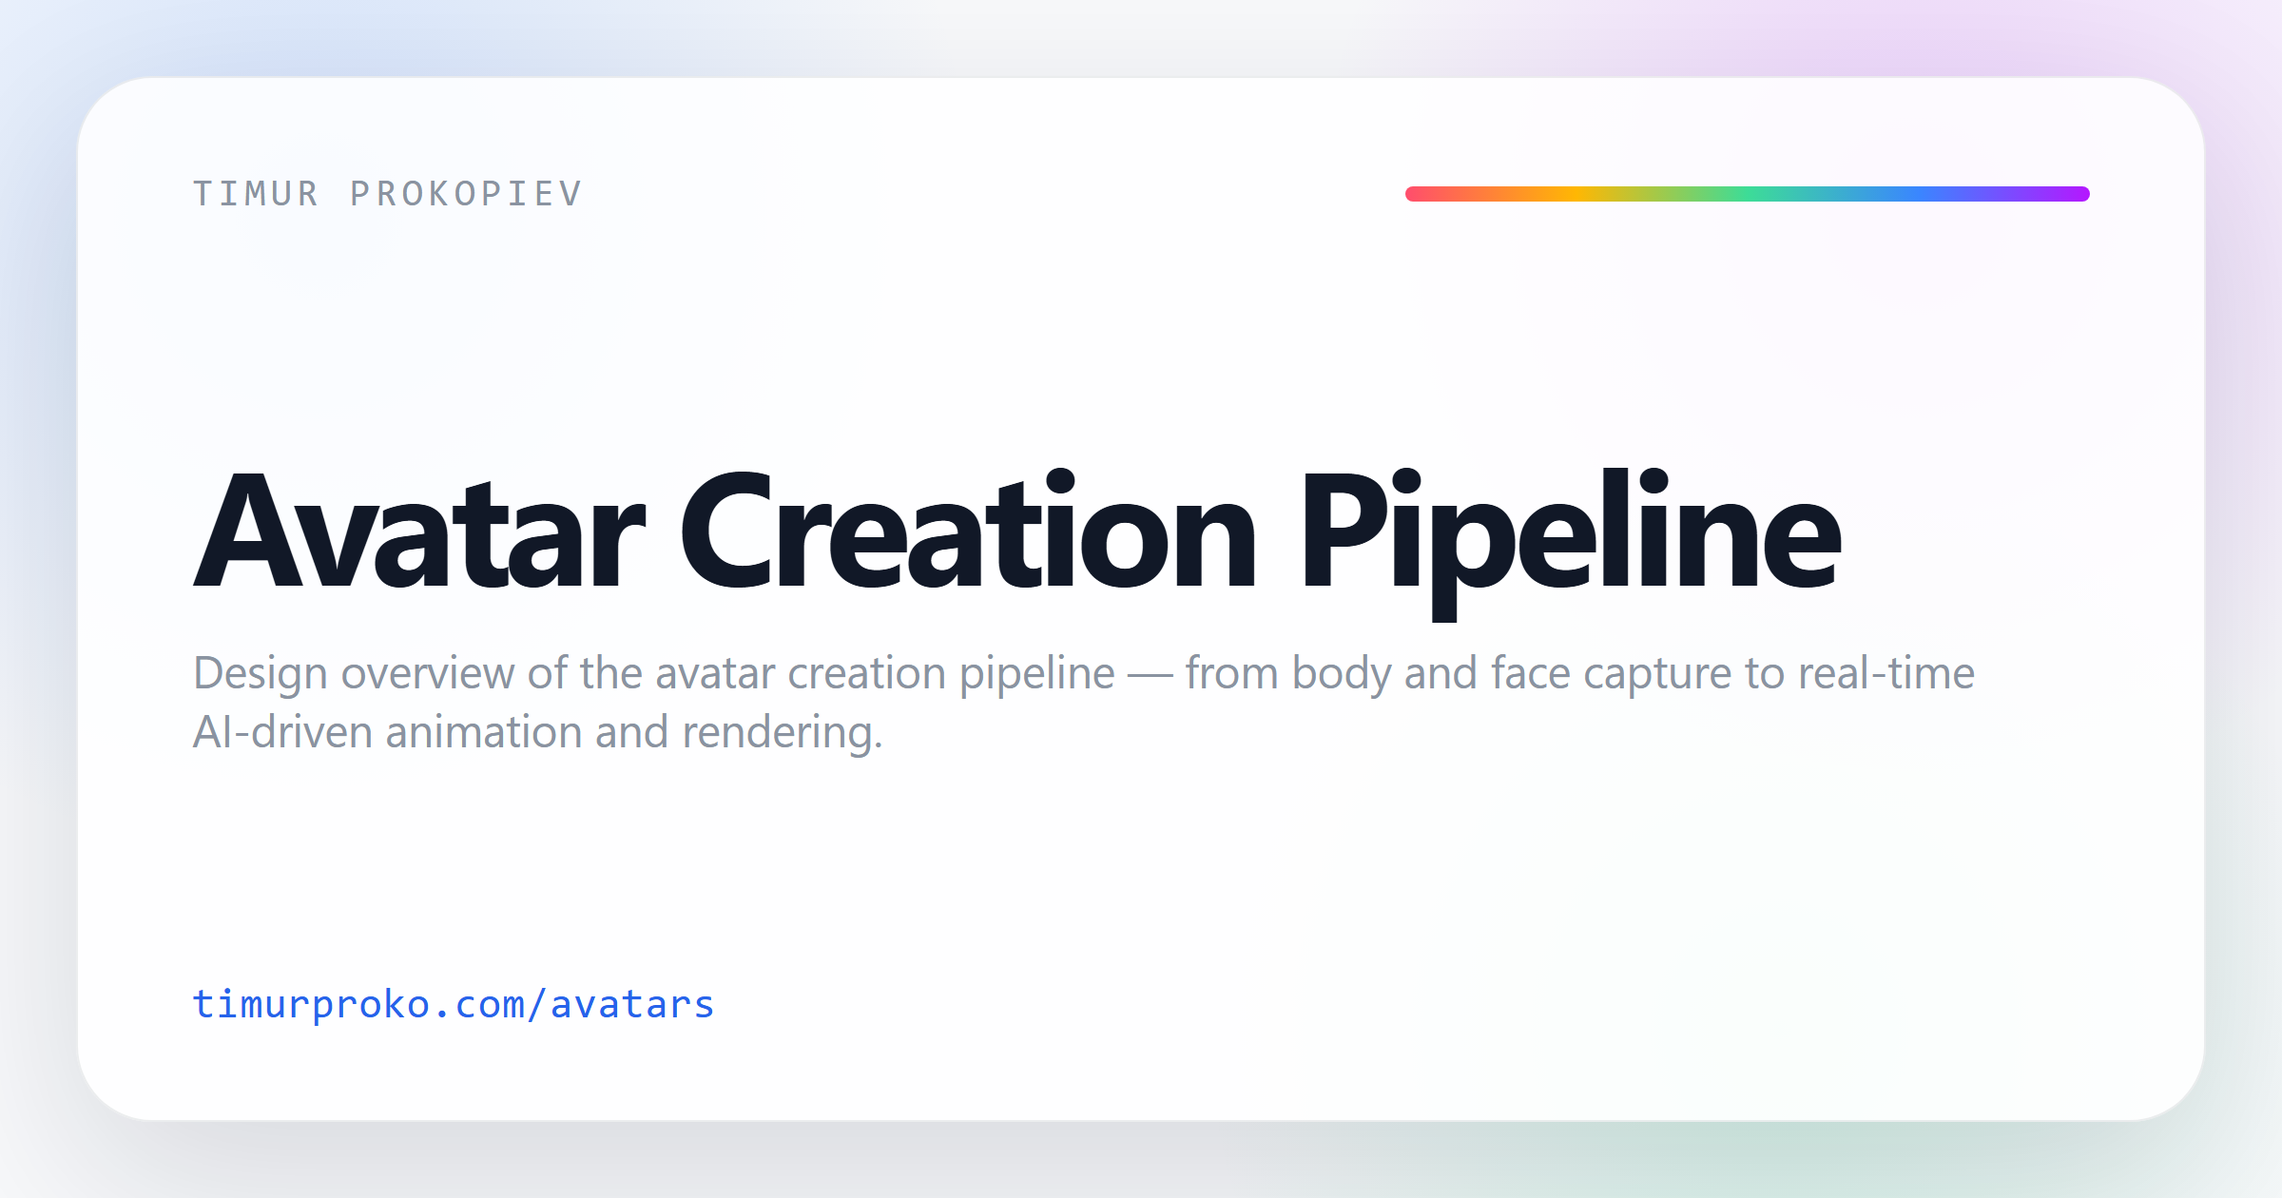
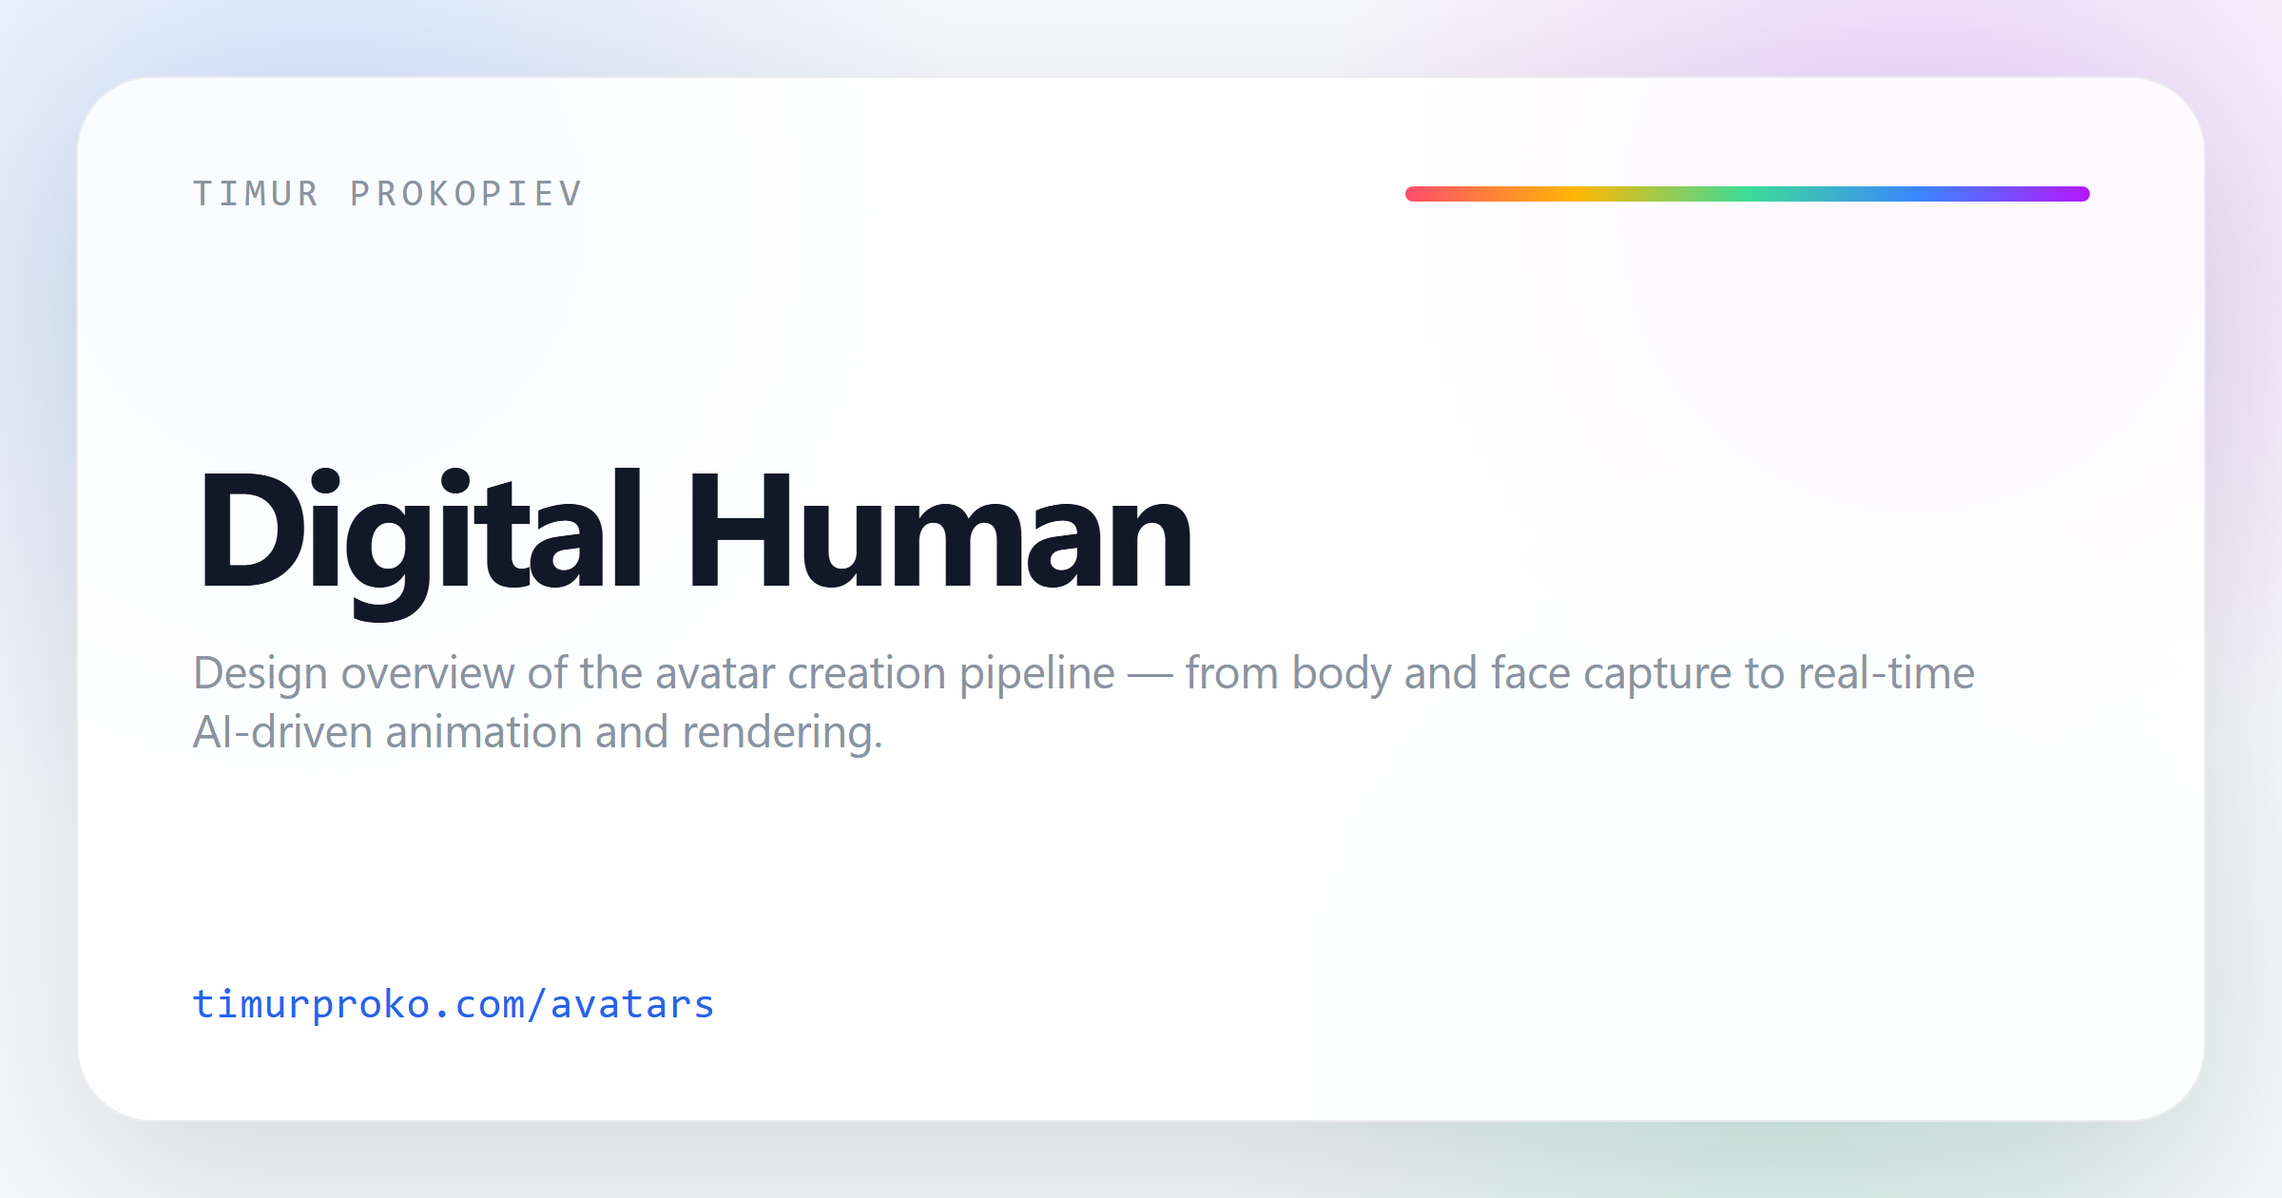
Title every case tab "Timur Prokopiev – <project>"
Case pages now name the tab after the site owner and the project heading,
like the home page and CV, instead of the bare project or a1's own tagline.
The social preview script drops the prefix for case pages, since the card
already prints the name, so share titles become the project name.

Changed region(s): [[0.0625, 0.3714, 0.8125, 0.5262]]

diff --git a/src/vital-sports/index.html b/src/vital-sports/index.html
@@ -9,19 +9,19 @@
   <link rel="canonical" href="https://timurproko.com/vital-sports/" />
   <meta property="og:type" content="website" />
   <meta property="og:site_name" content="Timur Prokopiev" />
-  <meta property="og:title" content="VITAL Sports — VR Mental Training" />
+  <meta property="og:title" content="VITAL Sports" />
   <meta property="og:description" content="A VR mental-training app for elite golfers on Meta Quest 3 — guided breathing, immersive tournament footage and visualisation in one short session, with live heart-rate-variability biofeedback." />
   <meta property="og:url" content="https://timurproko.com/vital-sports/" />
-  <meta property="og:image" content="https://timurproko.com/assets/social/vital-sports.png?v=38db1c1c" />
+  <meta property="og:image" content="https://timurproko.com/assets/social/vital-sports.png?v=1fdb15c7" />
   <meta property="og:image:width" content="2400" />
   <meta property="og:image:height" content="1260" />
-  <meta property="og:image:alt" content="VITAL Sports — VR Mental Training — social preview" />
+  <meta property="og:image:alt" content="VITAL Sports — social preview" />
   <meta name="twitter:card" content="summary_large_image" />
-  <meta name="twitter:title" content="VITAL Sports — VR Mental Training" />
+  <meta name="twitter:title" content="VITAL Sports" />
   <meta name="twitter:description" content="A VR mental-training app for elite golfers on Meta Quest 3 — guided breathing, immersive tournament footage and visualisation in one short session, with live heart-rate-variability biofeedback." />
-  <meta name="twitter:image" content="https://timurproko.com/assets/social/vital-sports.png?v=38db1c1c" />
+  <meta name="twitter:image" content="https://timurproko.com/assets/social/vital-sports.png?v=1fdb15c7" />
   <!-- social-preview:end -->
-  <title>VITAL Sports — VR Mental Training</title>
+  <title>Timur Prokopiev – VITAL Sports</title>
   <link rel="icon" href="/favicon.ico" sizes="any">
   <link rel="icon" type="image/png" sizes="32x32" href="/favicon-32x32.png">
   <link rel="icon" type="image/png" sizes="16x16" href="/favicon-16x16.png">

diff --git a/src/touch-my-heart/index.html b/src/touch-my-heart/index.html
@@ -9,19 +9,19 @@
   <link rel="canonical" href="https://timurproko.com/touch-my-heart/" />
   <meta property="og:type" content="website" />
   <meta property="og:site_name" content="Timur Prokopiev" />
-  <meta property="og:title" content="Touch My Heart XR Experience" />
+  <meta property="og:title" content="Touch My Heart" />
   <meta property="og:description" content="An XR experience for Magic Leap that takes users deep inside the human heart — realistic anatomy and the sounds of heart disease." />
   <meta property="og:url" content="https://timurproko.com/touch-my-heart/" />
-  <meta property="og:image" content="https://timurproko.com/assets/social/touch-my-heart.png?v=0a46483c" />
+  <meta property="og:image" content="https://timurproko.com/assets/social/touch-my-heart.png?v=bb721273" />
   <meta property="og:image:width" content="2400" />
   <meta property="og:image:height" content="1260" />
-  <meta property="og:image:alt" content="Touch My Heart XR Experience — social preview" />
+  <meta property="og:image:alt" content="Touch My Heart — social preview" />
   <meta name="twitter:card" content="summary_large_image" />
-  <meta name="twitter:title" content="Touch My Heart XR Experience" />
+  <meta name="twitter:title" content="Touch My Heart" />
   <meta name="twitter:description" content="An XR experience for Magic Leap that takes users deep inside the human heart — realistic anatomy and the sounds of heart disease." />
-  <meta name="twitter:image" content="https://timurproko.com/assets/social/touch-my-heart.png?v=0a46483c" />
+  <meta name="twitter:image" content="https://timurproko.com/assets/social/touch-my-heart.png?v=bb721273" />
   <!-- social-preview:end -->
-  <title>Touch My Heart XR Experience</title>
+  <title>Timur Prokopiev – Touch My Heart</title>
   <link rel="icon" href="/favicon.ico" sizes="any">
   <link rel="icon" type="image/png" sizes="32x32" href="/favicon-32x32.png">
   <link rel="icon" type="image/png" sizes="16x16" href="/favicon-16x16.png">

diff --git a/src/corel-for-mac/index.html b/src/corel-for-mac/index.html
@@ -9,19 +9,19 @@
   <link rel="canonical" href="https://timurproko.com/corel-for-mac/" />
   <meta property="og:type" content="website" />
   <meta property="og:site_name" content="Timur Prokopiev" />
-  <meta property="og:title" content="UX Case Study" />
+  <meta property="og:title" content="CorelDRAW for macOS" />
   <meta property="og:description" content="A UX case study on bringing CorelDRAW Graphics Suite to macOS — balancing business goals, user needs and technical reality." />
   <meta property="og:url" content="https://timurproko.com/corel-for-mac/" />
-  <meta property="og:image" content="https://timurproko.com/assets/social/corel-for-mac.png?v=f6962d9e" />
+  <meta property="og:image" content="https://timurproko.com/assets/social/corel-for-mac.png?v=0e7995b8" />
   <meta property="og:image:width" content="2400" />
   <meta property="og:image:height" content="1260" />
-  <meta property="og:image:alt" content="UX Case Study — social preview" />
+  <meta property="og:image:alt" content="CorelDRAW for macOS — social preview" />
   <meta name="twitter:card" content="summary_large_image" />
-  <meta name="twitter:title" content="UX Case Study" />
+  <meta name="twitter:title" content="CorelDRAW for macOS" />
   <meta name="twitter:description" content="A UX case study on bringing CorelDRAW Graphics Suite to macOS — balancing business goals, user needs and technical reality." />
-  <meta name="twitter:image" content="https://timurproko.com/assets/social/corel-for-mac.png?v=f6962d9e" />
+  <meta name="twitter:image" content="https://timurproko.com/assets/social/corel-for-mac.png?v=0e7995b8" />
   <!-- social-preview:end -->
-  <title>UX Case Study</title>
+  <title>Timur Prokopiev – CorelDRAW for macOS</title>
   <link rel="icon" href="/favicon.ico" sizes="any">
   <link rel="icon" type="image/png" sizes="32x32" href="/favicon-32x32.png">
   <link rel="icon" type="image/png" sizes="16x16" href="/favicon-16x16.png">

diff --git a/src/avatars/index.html b/src/avatars/index.html
@@ -9,19 +9,19 @@
   <link rel="canonical" href="https://timurproko.com/avatars/" />
   <meta property="og:type" content="website" />
   <meta property="og:site_name" content="Timur Prokopiev" />
-  <meta property="og:title" content="Avatar Creation Pipeline" />
+  <meta property="og:title" content="Digital Human" />
   <meta property="og:description" content="Design overview of the avatar creation pipeline — from body and face capture to real-time AI-driven animation and rendering." />
   <meta property="og:url" content="https://timurproko.com/avatars/" />
-  <meta property="og:image" content="https://timurproko.com/assets/social/avatars.png?v=c5388deb" />
+  <meta property="og:image" content="https://timurproko.com/assets/social/avatars.png?v=cde5e197" />
   <meta property="og:image:width" content="2400" />
   <meta property="og:image:height" content="1260" />
-  <meta property="og:image:alt" content="Avatar Creation Pipeline — social preview" />
+  <meta property="og:image:alt" content="Digital Human — social preview" />
   <meta name="twitter:card" content="summary_large_image" />
-  <meta name="twitter:title" content="Avatar Creation Pipeline" />
+  <meta name="twitter:title" content="Digital Human" />
   <meta name="twitter:description" content="Design overview of the avatar creation pipeline — from body and face capture to real-time AI-driven animation and rendering." />
-  <meta name="twitter:image" content="https://timurproko.com/assets/social/avatars.png?v=c5388deb" />
+  <meta name="twitter:image" content="https://timurproko.com/assets/social/avatars.png?v=cde5e197" />
   <!-- social-preview:end -->
-  <title>Avatar Creation Pipeline</title>
+  <title>Timur Prokopiev – Digital Human</title>
   <link rel="icon" href="/favicon.ico" sizes="any">
   <link rel="icon" type="image/png" sizes="32x32" href="/favicon-32x32.png">
   <link rel="icon" type="image/png" sizes="16x16" href="/favicon-16x16.png">

diff --git a/src/a1/index.html b/src/a1/index.html
@@ -9,19 +9,19 @@
   <link rel="canonical" href="https://timurproko.com/a1/" />
   <meta property="og:type" content="website" />
   <meta property="og:site_name" content="Timur Prokopiev" />
-  <meta property="og:title" content="a1 — AI Coding Agent" />
+  <meta property="og:title" content="a1" />
   <meta property="og:description" content="An open-source, terminal-native AI coding agent built on Pi — conversational coding, file tools and command execution, with configurable models and extensions." />
   <meta property="og:url" content="https://timurproko.com/a1/" />
-  <meta property="og:image" content="https://timurproko.com/assets/social/a1.png?v=f6793fcb" />
+  <meta property="og:image" content="https://timurproko.com/assets/social/a1.png?v=e4618033" />
   <meta property="og:image:width" content="2400" />
   <meta property="og:image:height" content="1260" />
-  <meta property="og:image:alt" content="a1 — AI Coding Agent — social preview" />
+  <meta property="og:image:alt" content="a1 — social preview" />
   <meta name="twitter:card" content="summary_large_image" />
-  <meta name="twitter:title" content="a1 — AI Coding Agent" />
+  <meta name="twitter:title" content="a1" />
   <meta name="twitter:description" content="An open-source, terminal-native AI coding agent built on Pi — conversational coding, file tools and command execution, with configurable models and extensions." />
-  <meta name="twitter:image" content="https://timurproko.com/assets/social/a1.png?v=f6793fcb" />
+  <meta name="twitter:image" content="https://timurproko.com/assets/social/a1.png?v=e4618033" />
   <!-- social-preview:end -->
-  <title>a1 — AI Coding Agent</title>
+  <title>Timur Prokopiev – a1</title>
   <link rel="icon" href="/favicon.ico" sizes="any">
   <link rel="icon" type="image/png" sizes="32x32" href="/favicon-32x32.png">
   <link rel="icon" type="image/png" sizes="16x16" href="/favicon-16x16.png">

diff --git a/src/minecare/index.html b/src/minecare/index.html
@@ -9,19 +9,19 @@
   <link rel="canonical" href="https://timurproko.com/minecare/" />
   <meta property="og:type" content="website" />
   <meta property="og:site_name" content="Timur Prokopiev" />
-  <meta property="og:title" content="UX Case Study" />
+  <meta property="og:title" content="MineCare" />
   <meta property="og:description" content="A UX case study for MineCare — unifying fleet-health monitoring and maintenance software for open-pit mines into one role-based platform." />
   <meta property="og:url" content="https://timurproko.com/minecare/" />
-  <meta property="og:image" content="https://timurproko.com/assets/social/minecare.png?v=e5914b4a" />
+  <meta property="og:image" content="https://timurproko.com/assets/social/minecare.png?v=95a19b25" />
   <meta property="og:image:width" content="2400" />
   <meta property="og:image:height" content="1260" />
-  <meta property="og:image:alt" content="UX Case Study — social preview" />
+  <meta property="og:image:alt" content="MineCare — social preview" />
   <meta name="twitter:card" content="summary_large_image" />
-  <meta name="twitter:title" content="UX Case Study" />
+  <meta name="twitter:title" content="MineCare" />
   <meta name="twitter:description" content="A UX case study for MineCare — unifying fleet-health monitoring and maintenance software for open-pit mines into one role-based platform." />
-  <meta name="twitter:image" content="https://timurproko.com/assets/social/minecare.png?v=e5914b4a" />
+  <meta name="twitter:image" content="https://timurproko.com/assets/social/minecare.png?v=95a19b25" />
   <!-- social-preview:end -->
-  <title>UX Case Study</title>
+  <title>Timur Prokopiev – MineCare</title>
   <link rel="icon" href="/favicon.ico" sizes="any">
   <link rel="icon" type="image/png" sizes="32x32" href="/favicon-32x32.png">
   <link rel="icon" type="image/png" sizes="16x16" href="/favicon-16x16.png">

diff --git a/src/starkit/index.html b/src/starkit/index.html
@@ -9,19 +9,19 @@
   <link rel="canonical" href="https://timurproko.com/starkit/" />
   <meta property="og:type" content="website" />
   <meta property="og:site_name" content="Timur Prokopiev" />
-  <meta property="og:title" content="STARKIT SRD — Touch-free Experience" />
+  <meta property="og:title" content="STARKIT SRD" />
   <meta property="og:description" content="A Unity XR application for Sony" />
   <meta property="og:url" content="https://timurproko.com/starkit/" />
-  <meta property="og:image" content="https://timurproko.com/assets/social/starkit.png?v=c9dc5913" />
+  <meta property="og:image" content="https://timurproko.com/assets/social/starkit.png?v=52714b63" />
   <meta property="og:image:width" content="2400" />
   <meta property="og:image:height" content="1260" />
-  <meta property="og:image:alt" content="STARKIT SRD — Touch-free Experience — social preview" />
+  <meta property="og:image:alt" content="STARKIT SRD — social preview" />
   <meta name="twitter:card" content="summary_large_image" />
-  <meta name="twitter:title" content="STARKIT SRD — Touch-free Experience" />
+  <meta name="twitter:title" content="STARKIT SRD" />
   <meta name="twitter:description" content="A Unity XR application for Sony" />
-  <meta name="twitter:image" content="https://timurproko.com/assets/social/starkit.png?v=c9dc5913" />
+  <meta name="twitter:image" content="https://timurproko.com/assets/social/starkit.png?v=52714b63" />
   <!-- social-preview:end -->
-  <title>STARKIT SRD — Touch-free Experience</title>
+  <title>Timur Prokopiev – STARKIT SRD</title>
   <link rel="icon" href="/favicon.ico" sizes="any">
   <link rel="icon" type="image/png" sizes="32x32" href="/favicon-32x32.png">
   <link rel="icon" type="image/png" sizes="16x16" href="/favicon-16x16.png">

diff --git a/src/untitled-world/index.html b/src/untitled-world/index.html
@@ -21,7 +21,7 @@
   <meta name="twitter:description" content="An augmented-reality art project — wireframe holograms anchored over rooftops, parks, frozen rivers and underpasses, imagining a world where reality itself becomes a piece of art." />
   <meta name="twitter:image" content="https://timurproko.com/assets/social/untitled-world.png?v=71722c99" />
   <!-- social-preview:end -->
-  <title>Untitled World</title>
+  <title>Timur Prokopiev – Untitled World</title>
   <link rel="icon" href="/favicon.ico" sizes="any">
   <link rel="icon" type="image/png" sizes="32x32" href="/favicon-32x32.png">
   <link rel="icon" type="image/png" sizes="16x16" href="/favicon-16x16.png">

diff --git a/src/vr-for-everybody/index.html b/src/vr-for-everybody/index.html
@@ -21,7 +21,7 @@
   <meta name="twitter:description" content="Research of the VR field — 64 years of history, AR/VR/MR theory, headsets and tracking, XR software, education, enterprise use and where the industry is heading." />
   <meta name="twitter:image" content="https://timurproko.com/assets/social/vr-for-everybody.png?v=1f115d14" />
   <!-- social-preview:end -->
-  <title>VR for Everybody</title>
+  <title>Timur Prokopiev – VR for Everybody</title>
   <link rel="icon" href="/favicon.ico" sizes="any">
   <link rel="icon" type="image/png" sizes="32x32" href="/favicon-32x32.png">
   <link rel="icon" type="image/png" sizes="16x16" href="/favicon-16x16.png">

diff --git a/src/feelxr/index.html b/src/feelxr/index.html
@@ -21,7 +21,7 @@
   <meta name="twitter:description" content="A guided VR creative-health prototype for Meta Quest — touch a living orb of sound and colour, with WHOLI wellbeing check-ins before and after to measure the change." />
   <meta name="twitter:image" content="https://timurproko.com/assets/social/feelxr.png?v=0306adcb" />
   <!-- social-preview:end -->
-  <title>FeelXR</title>
+  <title>Timur Prokopiev – FeelXR</title>
   <link rel="icon" href="/favicon.ico" sizes="any">
   <link rel="icon" type="image/png" sizes="32x32" href="/favicon-32x32.png">
   <link rel="icon" type="image/png" sizes="16x16" href="/favicon-16x16.png">

diff --git a/src/xr-prototypes/index.html b/src/xr-prototypes/index.html
@@ -21,7 +21,7 @@
   <meta name="twitter:description" content="Rapid XR prototypes for Meta Quest — physics, generative music, AI vision and spatial health education — plus a playable WebGL heart viewer." />
   <meta name="twitter:image" content="https://timurproko.com/assets/social/xr-prototypes.png?v=20b0d07c" />
   <!-- social-preview:end -->
-  <title>XR Prototypes</title>
+  <title>Timur Prokopiev – XR Prototypes</title>
   <link rel="icon" href="/favicon.ico" sizes="any">
   <link rel="icon" type="image/png" sizes="32x32" href="/favicon-32x32.png">
   <link rel="icon" type="image/png" sizes="16x16" href="/favicon-16x16.png">

diff --git a/src/calmxr/index.html b/src/calmxr/index.html
@@ -21,7 +21,7 @@
   <meta name="twitter:description" content="A calm-tech experience for smart glasses — short guided sessions with spatial audio, gentle visuals and simple focus exercises, prototyped on Meta Quest 3." />
   <meta name="twitter:image" content="https://timurproko.com/assets/social/calmxr.png?v=0cc5e6b2" />
   <!-- social-preview:end -->
-  <title>CalmXR</title>
+  <title>Timur Prokopiev – CalmXR</title>
   <link rel="icon" href="/favicon.ico" sizes="any">
   <link rel="icon" type="image/png" sizes="32x32" href="/favicon-32x32.png">
   <link rel="icon" type="image/png" sizes="16x16" href="/favicon-16x16.png">
